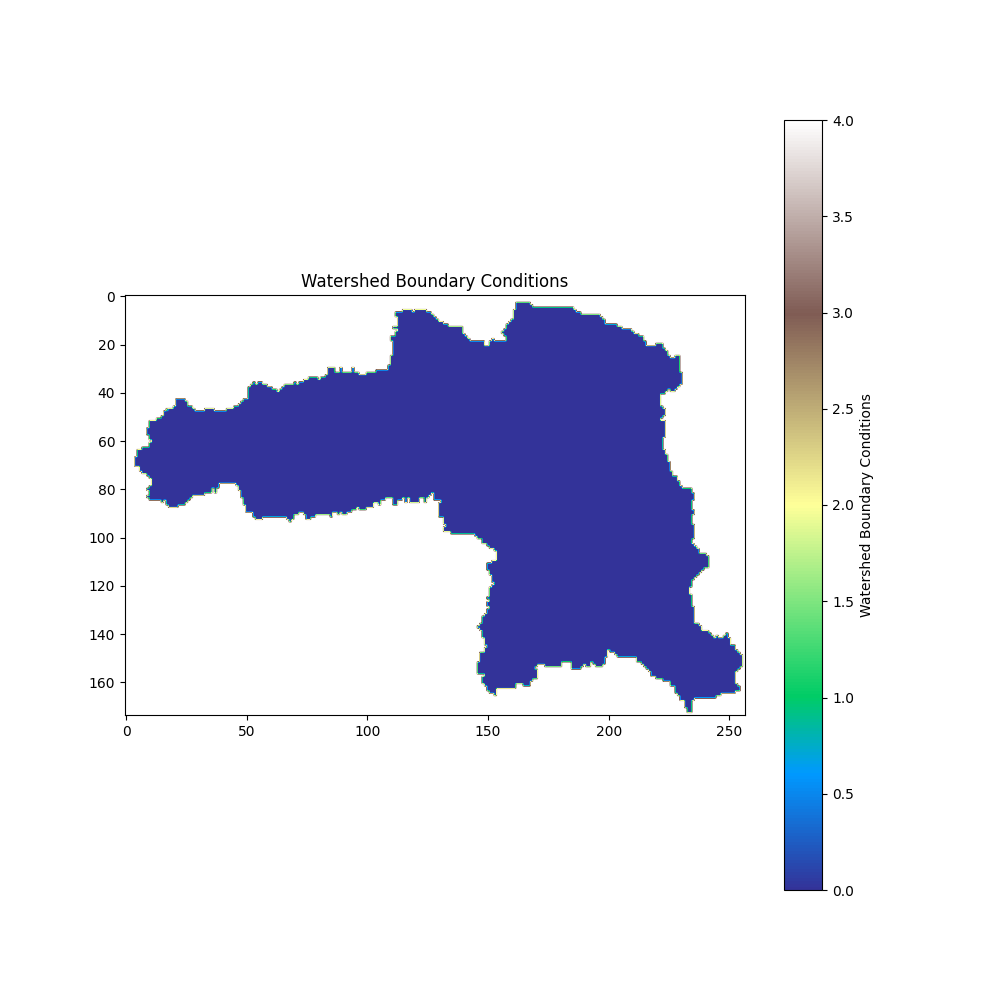
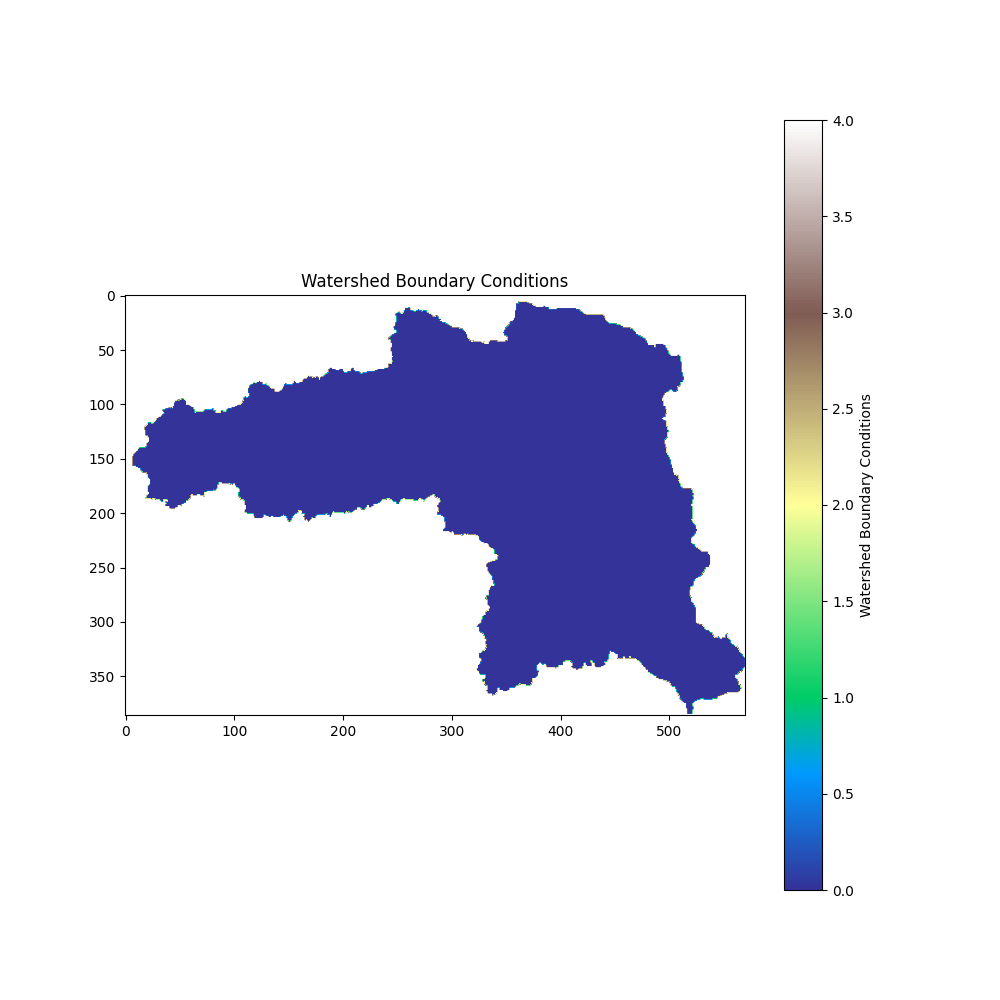
Set up the model properly. It now produces realistic results. Precipitation rates are set.

diff --git a/src/modeling/lem.py b/src/modeling/lem.py
@@ -16,7 +16,7 @@ except ImportError:
 from landlab.components import FlowAccumulator, ErosionDeposition, SinkFiller
 
 
-from utils import resampleDEM 
+from utils import ProcessLogger, resampleDEM 
 
 import matplotlib.pyplot as plt
 
@@ -26,7 +26,7 @@ OUTPUT_DIR = os.path.join(BASE_DIR, 'data', 'out')
         
 
 class SourceToSinkSimulator:
-    def __init__(self, path_to_topography: str, path_to_precipitation: str = None):
+    def __init__(self, path_to_topography: str, path_to_precipitation: str = None, runtime_plotting: bool = False):
         self.path_to_topography = path_to_topography
         self.path_to_precipitation = path_to_precipitation
         self.grid = None
@@ -36,7 +36,13 @@ class SourceToSinkSimulator:
         self.flow_accumulator = None
         self.erosion_deposition_model = None
         self.model_resolution = None
-        self.model_run_time = None
+        self.model_runtime = None
+        self.initial_topography = None
+        self.shape = None
+        self.runtime_plotting = runtime_plotting
+        self.save_step_results = True
+        self.logger = ProcessLogger(os.path.join(OUTPUT_DIR, 'process.log'))
+        self.logger.log("SourceToSinkSimulator initialized.")
 
     def createRasterModelGrid(self):
         """Create a RasterModelGrid from a DEM file."""
@@ -56,11 +62,35 @@ class SourceToSinkSimulator:
                     print("No nodata value is not found in the raster. Set it before creating the grid.")
                     print("Use SourceToSinkSimulator.setNoData() to set the nodata value.")
             self.nodata_mask = elevation == nodata
+            
             self.valid_data_mask = ~self.nodata_mask
             self.model_resolution = src.res[0]  # Assuming square pixels
             self.grid = RasterModelGrid(elevation.shape, xy_spacing=(src.res[0], src.res[1]))
-            self.grid.add_field('topographic__elevation', elevation, at='node')
-            self.setPrecipitationRates(self.path_to_precipitation)
+            self.grid.add_field('topographic__elevation', elevation, at='node', units='m')
+
+            # Log stats of the topographic field
+            self.logger.log("RasterModelGrid created successfully.")
+            self.logger.log(f"Model resolution: {self.model_resolution} m")
+            self.logger.log(f"Model grid shape: {self.grid.shape}")
+            self.logger.log(f"Model grid size: {self.grid.number_of_nodes} nodes")
+            self.logger.log(f"Model grid area: {self.grid.dx} m x {self.grid.dy} m")
+            self.logger.log(f"Model grid area: {self.grid.dx * self.grid.dy} m2")
+            self.logger.log(f"Model grid extent: {self.grid.extent}")
+            self.logFieldStats('topographic__elevation')
+
+            # Set precipitation rates if provided
+            if self.path_to_precipitation:
+                self.setPrecipitationRates(self.path_to_precipitation)
+
+            # Copy the initial topography for later use
+            self.initial_topography = self.grid.at_node['topographic__elevation'].copy()
+
+           
+
+            # Plot the initial topography and nodata mask
+            if self.runtime_plotting:
+                self.plotFieldData('topographic__elevation')
+                self.plotDataArray(self.nodata_mask, title="NoData Mask")
            
             
 
@@ -105,22 +135,40 @@ class SourceToSinkSimulator:
                 )
     def setWatershedBoundaryConditions(self):
         """Set watershed boundary conditions for the DEM."""
+        def log(outlet_id):
+            self.logger.log("Watershed boundary conditions set successfully.")
+            self.logger.log(f"Outlet node ID: {outlet_id}")
+            self.logger.log(f"Outlet node elevation: {self.grid.at_node['topographic__elevation'][outlet_id]}")
+            self.logger.log(f"Outlet node coordinates: {self.grid.node_x[outlet_id]}, {self.grid.node_y[outlet_id]}")
+            self.logger.log(f"Outlet node status: {self.grid.status_at_node[outlet_id]}")
+            self.logger.log(f"Number of closed nodes: {np.sum(self.grid.status_at_node == 4)}")
+            self.logger.log(f"Number of core nodes: {np.sum(self.grid.status_at_node == 0)}")
+            self.logger.log(f"Number of nodes with fixed value: {np.sum(self.grid.status_at_node == 1)}")
+            self.logger.log(f"Number of nodes with fixed gradieent: {np.sum(self.grid.status_at_node == 2)}")
+            self.logger.log(f"Number of looped nodes: {np.sum(self.grid.status_at_node == 3)}")
+            self.logger.log(f"Topography stats after setting watershed boundary conditions:")
+            self.logFieldStats('topographic__elevation')
+
         if self.grid is not None:
             self.grid.set_nodata_nodes_to_closed(self.grid.at_node['topographic__elevation'], self.no_data_value)
             try:
-                self.grid.set_watershed_boundary_condition(self.grid.field_values('topographic__elevation'), 
+                outlet_id = self.grid.set_watershed_boundary_condition(self.grid.field_values('topographic__elevation'), 
                                                            nodata_value=self.no_data_value, 
                                                            remove_disconnected=True,
                                                            return_outlet_id=True
                                                            )
-                self.saveDataArray(self.grid.status_at_node.reshape(self.grid.shape), title="Watershed Boundary Conditions")             
+                
+                self.plotAndSaveDataArray(self.grid.status_at_node, save_path=os.path.join(OUTPUT_DIR, 'status_at_node.png'))
+                log(outlet_id=outlet_id)
             except Exception as e:
                 print(f"Error setting watershed boundary conditions: {e}")
                 print("Seems like there are multiple cells with the lowest elevation.")  
                 print("Trying to lower the elevation of one of this cells, which will serve as the outlet node.")
                 min_elev = self.grid.at_node['topographic__elevation'].reshape(self.grid.shape)[self.valid_data_mask].min()
                 node_ids = np.where(self.grid.at_node['topographic__elevation']== min_elev)[0]
-                self.grid.set_watershed_boundary_condition_outlet_id(node_ids[0], self.grid.field_values("topographic__elevation"))
+                outlet_id = self.grid.set_watershed_boundary_condition_outlet_id(node_ids[0], self.grid.field_values("topographic__elevation"))
+                log(outlet_id=outlet_id)
+
     
     def setPrecipitationRates(self, path_to_precipitation_raster:str):  
         """Set precipitation rates for the simulation."""
@@ -131,28 +179,31 @@ class SourceToSinkSimulator:
                 self.reprojectToUtm(src, dst_path)
                 src = rasterio.open(dst_path)
                 print(f"Reprojected raster to UTM and saved as {dst_path}.")
-            if src.res[0] != self.model_resolution:
+                path_to_precipitation_raster = dst_path
+            if src.res[0] != self.model_resolution and src.shape != self.grid.shape:
                 print("Warning: The resolution of the precipitation raster does not match the DEM resolution.")
                 print("Resampling the precipitation raster to match the DEM resolution.")
-                path_to_precipitation_raster = resampleDEM(dst_path, 
+
+                path_to_precipitation_raster = resampleDEM(path_to_precipitation_raster, 
                                                             up_scale_factor=src.res[0]/self.model_resolution)
                 src = rasterio.open(path_to_precipitation_raster)
 
-            precipitation = src.read(1).astype(np.float64)
+            precipitation = src.read(1).astype(np.float64)/1000  # Convert to m/year
             nodata = src.nodata
             if nodata:
                 precipitation[self.nodata_mask] = nodata
-            self.grid.add_field('water__unit_flux_in', precipitation, at='node', clobber=True, units='mm/year')
-            print(self.grid.field_values('water__unit_flux_in').dtype)
+            self.grid.add_field('water__unit_flux_in', precipitation, at='node', clobber=True, units='m/year')
+            self.logger.log(f"Precipitation rates set from {path_to_precipitation_raster}.")
+            self.logFieldStats('water__unit_flux_in')
             #TODO: need to check the units. for now the units are in mm/year
     
     def setUpErosionDepositionModel(self, 
                                     m_sp:float = 0.45, 
                                     n_sp:float = 1, 
-                                    K_sp:float = 0.02, # erodibility coefficient, should later be secified based on geology
-                                    v_s:float = 1, #1 means equal contribution from transport and deposition
-                                    F_f:float = 0.1, #10% of sediment is permitted to enter the wash load
-                                    solver:str = 'adaptive',
+                                    K_sp:float = 0.002, # erodibility coefficient, should later be secified based on geology
+                                    v_s:str = "field_name", #should specify a field name
+                                    F_f:float = 0.0, #10% of sediment is permitted to enter the wash load
+                                    solver:str = 'basic',
                                     runoff_rate: float = None):
         """Set up the erosion and deposition model."""
 
@@ -163,40 +214,45 @@ class SourceToSinkSimulator:
         
         self.flow_accumulator = FlowAccumulator(self.grid, depression_finder='DepressionFinderAndRouter', flow_director='D8', runoff_rate=runoff_rate)
         self.sink_filler = SinkFiller(self.grid)
-        self.erosion_deposition_model = ErosionDeposition(self.grid, K=0.01, m_sp=1.0, n_sp=1.0)
+        self.erosion_deposition_model = ErosionDeposition(self.grid, K=K_sp, m_sp=m_sp, n_sp=n_sp, F_f=F_f, solver=solver)
+        self.logger.log("Erosion and deposition model set up successfully.")
+        self.logger.log(f"Model parameters: m_sp={m_sp}, n_sp={n_sp}, K_sp={K_sp}, v_s={v_s}, F_f={F_f}, solver={solver}")
+        self.logger.log(f"Runoff rate: {runoff_rate} m/s")
+
+
 
     def runSimulation(self, years: int = 100, dt: float = 1, uplift_rate: float = 0.002):
         """Run the simulation for a specified number of years."""
         if self.flow_accumulator is None or self.erosion_deposition_model is None:
             raise ValueError("Erosion and deposition model not set up. Call setUpErosionDepositionModel() first.")
-        self.model_run_time = years
+        self.model_runtime = years
         n_steps = int(years / dt)
         for i in range(n_steps):
             #accumulate flow a
             self.flow_accumulator.run_one_step()
-            #calculate sediment transport capacity
+            #fill sinks
             self.sink_filler.run_one_step()
             #calculate sediment erosion and deposition
             self.erosion_deposition_model.run_one_step(dt=dt)
             #apply uplift rate
             self.grid.at_node['topographic__elevation'].reshape(self.grid.shape)[self.valid_data_mask] += uplift_rate * dt
             if i % (years/10) == 0:
+                print(f"Fields: {self.grid.fields()}")
+                self.logger.log("+-"*50)
+                self.logger.log(f"Simulation step {i}/{n_steps} completed.")
                 print(f"Simulation step {i}/{n_steps} completed.")
-
-
-    def visualizeResults(self):
-        """Visualize the results of the simulation."""
-        if self.grid is None:
-            raise ValueError("Grid not created. Call createRasterModelGrid() first.")
-        if self.nodata_mask is None:
-            raise ValueError("No data mask not created. Call setNoData() first.")
-        sediment_influx = self.grid.at_node['sediment__influx']*31536000 * self.model_run_time # Convert to total sediment influx in m3
-        sediment_influx[self.grid.boundary_nodes] = 0
-        plt.figure(figsize=(10, 10))
-        plt.imshow(sediment_influx.reshape(self.grid.shape), cmap='terrain')
-        plt.colorbar(label='Sediment Flux Difference (m3/s)')
-        plt.savefig(os.path.join(OUTPUT_DIR, 'sediment_flux_difference.png'))
-        plt.show()
+                
+                fields = ['topographic__elevation', 'water__unit_flux_in',  'drainage_area', 
+                          'surface_water__discharge', 'water_depth', 'sediment__influx', 
+                          'sediment__outflux','sediment_deposit__thickness', 'flow__sink_flag']
+                for field in fields:
+                    if field in self.grid.at_node:
+                        #log  field data statistics
+                        self.logFieldStats(field)
+                        #plot field data
+                        self.plotAndSaveFieldData(field, save_path=os.path.join(OUTPUT_DIR, f'{field}_step_{i}.png'))
+                # Save the topography change
+                self.plotAndSaveDataArray(self.grid.at_node['topographic__elevation']-self.initial_topography, title="Topography Change")
         
 
     def plotFieldData(self, field_name: str):
@@ -221,7 +277,7 @@ class SourceToSinkSimulator:
             plt.title(title)
         plt.show()
     
-    def saveDataArray(self, data_array: np.ndarray, title: str = None, save_path: str = None):
+    def plotAndSaveDataArray(self, data_array: np.ndarray, title: str = None, save_path: str = None):
         """Plot and save a data array."""
         if not title:
             title = "output_result"
@@ -234,6 +290,51 @@ class SourceToSinkSimulator:
         plt.colorbar(label=title)
         plt.title(title)
         plt.savefig(save_path)
+        plt.close()
+    
+    def plotAndSaveFieldData(self, field_name: str, save_path: str = None):
+        """Plot and save field data."""
+        if self.grid is None:
+            raise ValueError("Grid not created. Call createRasterModelGrid() first.")
+        if field_name not in self.grid.at_node:
+            raise ValueError(f"Field {field_name} not found in the grid.")
+        if not save_path:
+            save_path = os.path.join(OUTPUT_DIR, f'{field_name}.png')
+        plt.figure(figsize=(10, 10))
+        plt.imshow(self.grid.at_node[field_name].reshape(self.grid.shape), cmap='terrain')
+        plt.colorbar(label=field_name)
+        plt.title(field_name)
+        plt.savefig(save_path)
+        plt.close()
+
+    def printFieldStats(self, field_name: str):
+        """Print statistics aboon ut a field data."""
+        if self.grid is None:
+            raise ValueError("Grid not created. Call createRasterModelGrid() first.")
+        if field_name not in self.grid.at_node:
+            raise ValueError(f"Field {field_name} not found in the grid.")
+        print(f"Field {field_name}:")
+        print(f"  Shape: {self.grid.at_node[field_name].shape}")
+        print(f"  Data type: {self.grid.at_node[field_name].dtype}")
+        print(f"  Units: {self.grid.field_units(field_name)}")
+        print(f"  Min: {self.grid.at_node[field_name].min()}")
+        print(f"  Max: {self.grid.at_node[field_name].max()}")
+        print(f"  Mean: {self.grid.at_node[field_name].mean()}")
+
+    def logFieldStats(self, field_name: str):
+        """Log statistics about a field data."""
+        if self.grid is None:
+            raise ValueError("Grid not created. Call createRasterModelGrid() first.")
+        if field_name not in self.grid.at_node:
+            raise ValueError(f"Field {field_name} not found in the grid.")
+        self.logger.log(f"Field:\t {field_name}:")
+        self.logger.log(f"Shape:\t {self.grid.at_node[field_name].shape}")
+        self.logger.log(f"Data type:\t {self.grid.at_node[field_name].dtype}")
+        self.logger.log(f"Units:\t {self.grid.field_units(field_name)}")
+        self.logger.log(f"Min:\t {self.grid.at_node[field_name][self.grid.core_nodes].min()}")
+        self.logger.log(f"Max:\t {self.grid.at_node[field_name][self.grid.core_nodes].max()}")
+        self.logger.log(f"Mean:\t {self.grid.at_node[field_name][self.grid.core_nodes].mean()}")
+
 
 
 
@@ -241,7 +342,7 @@ class SourceToSinkSimulator:
     def setNoData(self, nodata_value: float):
         """Set the nodata value for the DEM."""
         self.no_data_value = nodata_value
-        print(f"Set no-data value to {self.no_data_value}.")
+        self.logger.log(f"Set no-data value to {self.no_data_value}.")
 
     def getNoData(self):
         """Get the nodata value."""
@@ -249,6 +350,14 @@ class SourceToSinkSimulator:
     def getGrid(self):
         """Get the grid."""
         return self.grid
+    
+    def setRunTimePlotting(self, runtime_plotting: bool):
+        """Set the run time plotting flag."""
+        self.runtime_plotting = runtime_plotting
+
+    def saveStepResults(self, save_step_results: bool):
+        """Set the save step results flag."""
+        self.save_step_results = save_step_results
     
 
 

diff --git a/src/modeling/hydrology.py b/src/modeling/hydrology.py
@@ -31,8 +31,8 @@ def setup_landlab_model(grid):
         grid,
         K=0.0001,  # Increased erodibility for mountainous terrain
         v_s=0.05,  # Settling velocity for fine sediment (silt)
-        F_f=0.5,   # 50% fine sediment, reflecting a mix of coarse and fine
-        m_sp=1.0,  # Discharge exponent
+        F_f=0,   # 50% fine sediment, reflecting a mix of coarse and fine
+        m_sp=0.5,  # Discharge exponent
         n_sp=1.0,  # Slope exponent
         solver='basic'
     )
@@ -93,8 +93,9 @@ def run_model(grid, fa, ed, seepage_outlet_node, overflow_outlet_node, lake_mask
         elevation_after = grid.at_node['topographic__elevation'].copy()
         elevation_change = elevation_after - elevation_before
 
-        # Update the elevation field
-        grid.at_node['topographic__elevation'][:] = elevation_before + elevation_change
+        #This does not make sense: 
+        """ # Update the elevation field
+        grid.at_node['topographic__elevation'][:] = elevation_before + elevation_change"""
 
         # Prevent elevation in the lake from decreasing below the initial elevation
         lake_nodes = (lake_mask_nodes == 1)
@@ -209,9 +210,9 @@ def plot_results(grid, dx, dy, initial_elevation, nodata_mask, lake_mask, elevat
     elevation_change[nodata_mask] = np.nan
 
     plt.figure(figsize=(10, 8))
-    plt.imshow(elevation_change, cmap='RdBu_r', vmin=-1.0, vmax=1.0)
+    plt.imshow(elevation_change, cmap='RdBu_r')
     plt.colorbar(label='Elevation Change (m)')
-    plt.title(f'Erosion (Red) and Deposition (Blue) After {years} Years ({int(dx * 111000)}m)')
+    plt.title(f'Elevation change after evolving the landscape for {years} Years ({int(dx * 111000)}m)')
     plt.xlabel('X (grid cells)')
     plt.ylabel('Y (grid cells)')
     plt.show()

diff --git a/src/modeling/utils.py b/src/modeling/utils.py
@@ -77,3 +77,30 @@ if __name__ == "__main__":
 
     resampled_dem_path = resampleDEM(dem_path, up_scale_factor, target_resolution)
     print(f"Resampled DEM saved at: {resampled_dem_path}")
+
+
+
+
+class ProcessLogger:
+    """
+    A simple logger class to log messages to a file.
+    
+    Attributes:
+    log_file (str): Path to the log file.
+    """
+    
+    def __init__(self, log_file):
+        self.log_file = log_file
+        with open(self.log_file, 'w') as f:
+            f.write("Process Log\n")
+            f.write("="*40 + "\n")
+            f.write("Timestamp\tMessage\n")
+            f.write("="*40 + "\n")
+
+    
+    def log(self, message):
+        """ Log a message to the log file."""
+        with open(self.log_file, 'a') as f:
+            f.write(f"{np.datetime64('now')}\t{message}\n")
+
+       

diff --git a/src/modeling/main.py b/src/modeling/main.py
@@ -15,17 +15,15 @@ plt.switch_backend('TkAgg')
 def main():
     """Main function to run the Source-to-Sink model."""
 
-    path_to_topo = os.path.join(DATA_DIR, 'sarez1000m.tif')
-    path_to_precip = os.path.join(DATA_DIR, 'precip1000m.tif')
+    path_to_topo = os.path.join(DATA_DIR, 'sarez500m_utm.tif')
+    path_to_precip = os.path.join(DATA_DIR, 'precip500m_utm.tif')
 
     mg = SourceToSinkSimulator(path_to_topography=path_to_topo, path_to_precipitation=path_to_precip)
     mg.setNoData(nodata_value=0)
     mg.createRasterModelGrid()
     mg.setWatershedBoundaryConditions()
     mg.setUpErosionDepositionModel()
-    mg.runSimulation(10)
-    mg.visualizeResults()
-
+    mg.runSimulation(50)
 
 if __name__ == "__main__":
     main()
